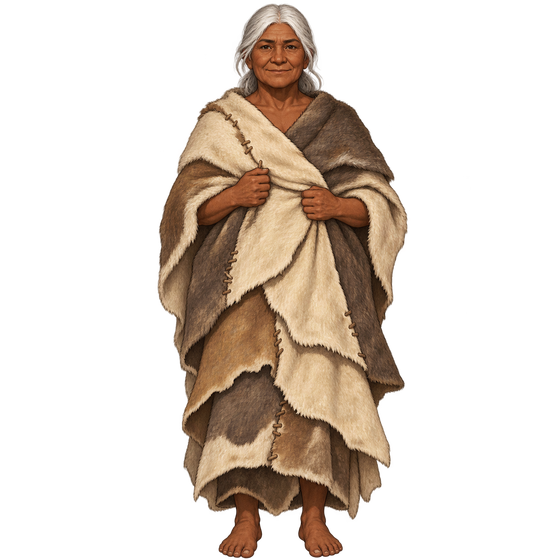
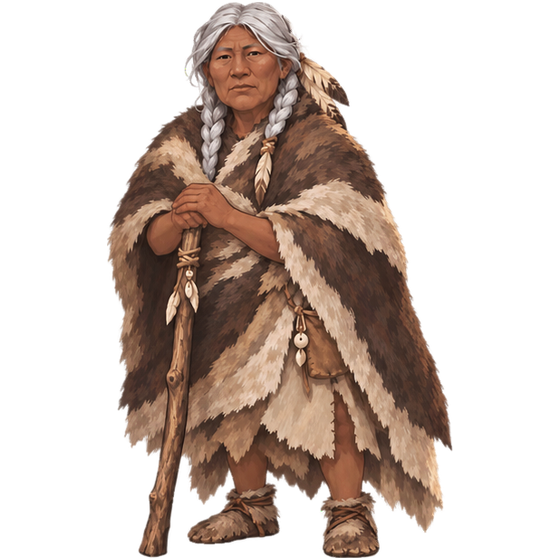
Brandbook: texturas que giran alrededor de Recursos gráficos, anciana del juego y título de portada estable

diff --git a/brandbook/index.html b/brandbook/index.html
@@ -12,7 +12,7 @@
   <link rel="apple-touch-icon" href="../apple-touch-icon.png">
   <script>(function(d){d.classList.add('js');if(!matchMedia('(prefers-reduced-motion: reduce)').matches&&!(location.hash&&location.hash!=='#inicio'))d.classList.add('cargando');setTimeout(function(){if(!window.marcaViva)d.classList.remove('js','cargando')},7000)})(document.documentElement)</script>
   <link rel="stylesheet" href="fuentes/space-grotesk.css">
-  <link rel="stylesheet" href="marca.css?v=25">
+  <link rel="stylesheet" href="marca.css?v=26">
 </head>
 <body>
   <a class="saltar" href="#contenido">Saltar al contenido</a>
@@ -1139,25 +1139,25 @@
             <div class="banda-hud"><span>06 / 10</span><span data-descifrar>#6940AE</span></div>
             <p class="seccion-numero">06 · Píxel, patrones, ilustración, fotografía y materiales</p>
             <h2 id="titulo-recursos" class="banda-titulo"><span data-banda-titulo>Recursos gráficos</span></h2>
+            <div class="collage-fotos" data-collage-fotos aria-hidden="true">
+              <img src="textiles/textil-055.webp" alt="" width="420" height="335" loading="lazy" decoding="async">
+              <img src="textiles/textil-035.webp" alt="" width="420" height="336" loading="lazy" decoding="async">
+              <img src="textiles/textil-098.webp" alt="" width="335" height="420" loading="lazy" decoding="async">
+              <img src="textiles/textil-129.webp" alt="" width="420" height="420" loading="lazy" decoding="async">
+              <img class="solo-compu" src="textiles/textil-015.webp" alt="" width="337" height="420" loading="lazy" decoding="async">
+              <img src="textiles/textil-118.webp" alt="" width="315" height="420" loading="lazy" decoding="async">
+              <img src="textiles/textil-034.webp" alt="" width="335" height="420" loading="lazy" decoding="async">
+              <img src="textiles/textil-068.webp" alt="" width="335" height="420" loading="lazy" decoding="async">
+              <img src="textiles/textil-046.webp" alt="" width="335" height="420" loading="lazy" decoding="async">
+              <img src="textiles/textil-127.webp" alt="" width="337" height="420" loading="lazy" decoding="async">
+              <img src="textiles/textil-049.webp" alt="" width="420" height="420" loading="lazy" decoding="async">
+              <img class="solo-compu" src="textiles/textil-047.webp" alt="" width="420" height="420" loading="lazy" decoding="async">
+              <img class="solo-compu" src="textiles/textil-104.webp" alt="" width="420" height="418" loading="lazy" decoding="async">
+              <img class="solo-compu" src="textiles/textil-001.webp" alt="" width="315" height="420" loading="lazy" decoding="async">
+              <img class="solo-compu" src="textiles/textil-016.webp" alt="" width="315" height="420" loading="lazy" decoding="async">
+              <img class="solo-compu" src="textiles/textil-064.webp" alt="" width="420" height="334" loading="lazy" decoding="async">
+            </div>
           </header>
-          <div class="collage-fotos" data-collage-fotos aria-hidden="true">
-            <img src="textiles/textil-055.webp" alt="" width="420" height="335" loading="lazy" decoding="async" style="--x:-4;--y:-24;--w:13;--t:0.00">
-            <img src="textiles/textil-035.webp" alt="" width="420" height="336" loading="lazy" decoding="async" style="--x:8;--y:22;--w:12;--t:0.04">
-            <img src="textiles/textil-098.webp" alt="" width="335" height="420" loading="lazy" decoding="async" style="--x:-8;--y:26;--w:9.5;--t:0.08">
-            <img src="textiles/textil-129.webp" alt="" width="420" height="420" loading="lazy" decoding="async" style="--x:20;--y:-22;--w:9;--t:0.12">
-            <img class="solo-compu" src="textiles/textil-015.webp" alt="" width="337" height="420" loading="lazy" decoding="async" style="--x:9;--y:-31;--w:6;--t:0.16">
-            <img src="textiles/textil-118.webp" alt="" width="315" height="420" loading="lazy" decoding="async" style="--x:22;--y:30;--w:7.5;--t:0.20">
-            <img src="textiles/textil-034.webp" alt="" width="335" height="420" loading="lazy" decoding="async" style="--x:-24;--y:-27;--w:10;--t:0.25">
-            <img src="textiles/textil-068.webp" alt="" width="335" height="420" loading="lazy" decoding="async" style="--x:-25;--y:27;--w:9;--t:0.29">
-            <img src="textiles/textil-046.webp" alt="" width="335" height="420" loading="lazy" decoding="async" style="--x:34;--y:-29;--w:8;--t:0.34">
-            <img src="textiles/textil-127.webp" alt="" width="337" height="420" loading="lazy" decoding="async" style="--x:35;--y:24;--w:8.5;--t:0.38">
-            <img src="textiles/textil-049.webp" alt="" width="420" height="420" loading="lazy" decoding="async" style="--x:-36;--y:-20;--w:5.5;--t:0.43">
-            <img class="solo-compu" src="textiles/textil-047.webp" alt="" width="420" height="420" loading="lazy" decoding="async" style="--x:-38;--y:21;--w:6;--t:0.47">
-            <img class="solo-compu" src="textiles/textil-104.webp" alt="" width="420" height="418" loading="lazy" decoding="async" style="--x:44;--y:-26;--w:5;--t:0.53">
-            <img class="solo-compu" src="textiles/textil-001.webp" alt="" width="315" height="420" loading="lazy" decoding="async" style="--x:46;--y:31;--w:6;--t:0.57">
-            <img class="solo-compu" src="textiles/textil-016.webp" alt="" width="315" height="420" loading="lazy" decoding="async" style="--x:-43;--y:-30;--w:6.5;--t:0.63">
-            <img class="solo-compu" src="textiles/textil-064.webp" alt="" width="420" height="334" loading="lazy" decoding="async" style="--x:-44;--y:33;--w:7;--t:0.68">
-          </div>
         </div>
       </div>
       <p class="copete" data-aparece>Todo el sistema sale de un módulo: el píxel, que sacamos de los patrones textiles de las culturas originarias. Con él se arman los paneles, los racimos, las tramas, la chakana y los patrones que crea el público. Lo acompañan las ilustraciones, las fotos y los materiales del evento.</p>
@@ -1254,7 +1254,7 @@
           <figure data-aparece><img src="ilustraciones/loica-pampeana.png" alt="Loica pampeana" width="560" height="560" loading="lazy" decoding="async"><figcaption>Loica pampeana</figcaption></figure>
           <figure data-aparece><img src="ilustraciones/nandu.png" alt="Ñandú" width="560" height="560" loading="lazy" decoding="async"><figcaption>Ñandú</figcaption></figure>
           <figure data-aparece><img src="ilustraciones/escuerzo.png" alt="Escuerzo" width="560" height="560" loading="lazy" decoding="async"><figcaption>Escuerzo</figcaption></figure>
-          <figure data-aparece><img src="ilustraciones/anciana-querandi.png" alt="Anciana querandí" width="560" height="560" loading="lazy" decoding="async"><figcaption>Anciana querandí</figcaption></figure>
+          <figure data-aparece><img src="ilustraciones/anciana-querandi.png?v=2" alt="Anciana querandí" width="560" height="560" loading="lazy" decoding="async"><figcaption>Anciana querandí</figcaption></figure>
         </div>
         <dl class="filas" data-aparece>
           <div><dt>Identidad marcada</dt><dd>Libro ilustrado pintado a mano: pinceladas suaves, contornos limpios y volumen simple. Es la misma imagen que se imprime en cartón en Yachay.</dd></div>
@@ -1678,6 +1678,6 @@
   <script src="marca.js?v=14"></script>
   <script src="efectos.js?v=6"></script>
   <script src="secciones.js?v=5"></script>
-  <script src="movimiento.js?v=16"></script>
+  <script src="movimiento.js?v=17"></script>
 </body>
 </html>

diff --git a/brandbook/movimiento.js b/brandbook/movimiento.js
@@ -278,7 +278,8 @@
     const h1 = $('h1', titular), partes = $$('.t-parte', h1);
     titular.style.setProperty('--titulo', '100px');
     const movil = matchMedia('(max-width: 700px)').matches;
-    const ancho = movil ? Math.max(...partes.map(anchoTexto)) : anchoTexto(h1);
+    const cajas = partes.map(p => { const r = document.createRange(); r.selectNodeContents(p); return r.getBoundingClientRect(); });
+    const ancho = movil ? Math.max(...cajas.map(c => c.width)) : Math.max(...cajas.map(c => c.right)) - Math.min(...cajas.map(c => c.left));
     const tam = limitar(100 * titular.clientWidth / ancho * 0.995, 40, movil ? 260 : 440);
     titular.style.setProperty('--titulo', tam.toFixed(1) + 'px');
   };
@@ -437,6 +438,12 @@
   const enVista = new IntersectionObserver(ents => ents.forEach(en => en.target.classList.toggle('en-vista', en.isIntersecting)), { rootMargin: '10% 0px' });
   $$('[data-tipo-vivo], .cinta').forEach(el => enVista.observe(el));
 
+  const ORBITA = [
+    [1, -.03, .115, 0], [.85, .12, .1, .1], [.95, -.13, .085, -.08], [.75, .02, .09, .05],
+    [1.05, -.09, .07, -.05], [.8, .15, .08, .12], [.9, .06, .105, -.1], [1, -.16, .08, .06],
+    [.7, -.05, .085, -.04], [.95, .1, .09, .08], [.85, -.11, .075, -.12], [1.05, .04, .07, .04],
+    [.75, .17, .065, -.06], [.95, -.02, .075, .09], [.8, -.17, .07, -.02], [1, .14, .08, .07]
+  ];
   const bandas = $$('[data-banda]').map(b => {
     const t = $('[data-banda-titulo]', b);
     const h2 = t.closest('h2');
@@ -445,8 +452,48 @@
     const letras = partir(t, 'letra-b');
     if (!quieto && window.EFECTOS) window.EFECTOS.tecnico(t, { letras, zona: b, barrido: 'una', presion: true });
     const c = b.closest('[data-collage]');
-    return { b, t, c, fotos: c && $('[data-collage-fotos]', c), entrada: 0, desborde: 0 };
+    const fotos = c ? $$('[data-collage-fotos] img', c).map((el, i) => ({ el, d: ORBITA[i % ORBITA.length], op: '', zi: '' })) : null;
+    return { b, t, c, h2, fotos, orbita: null, entrada: 0, desborde: 0 };
   });
+
+  const medirOrbita = x => {
+    const W = x.b.clientWidth, H = x.b.clientHeight, movil = W < 700;
+    const lista = x.fotos.filter(f => getComputedStyle(f.el).display !== 'none');
+    const n = lista.length, salto = n % 7 ? 7 : 5;
+    const R = W * (movil ? 0.34 : 0.2);
+    lista.forEach((f, j) => {
+      const [radio, alto, ancho, desvio] = f.d;
+      f.w = W * ancho * (movil ? 2.2 : 1.25);
+      f.h = f.w * f.el.getAttribute('height') / f.el.getAttribute('width');
+      f.el.style.width = f.w.toFixed(1) + 'px';
+      f.fi = VUELTA * ((j * salto) % n) / n + desvio;
+      f.r = radio;
+      f.y = alto;
+      f.nace = -0.28 + 0.4 * j / Math.max(1, n - 1);
+      f.muere = 0.78 + 0.3 * j / Math.max(1, n - 1);
+    });
+    x.orbita = { cx: W / 2, cy: x.h2.offsetTop + x.h2.offsetHeight / 2, R, P: R * 2, H, lista };
+  };
+
+  const orbitar = (x, v) => {
+    const o = x.orbita;
+    if (!o) return;
+    const giro = VUELTA * 0.7 * v;
+    for (const f of o.lista) {
+      const g = salida(limitar((v - f.nace) / 0.3)) * salida(limitar((f.muere - v) / 0.3));
+      const a = f.fi - giro;
+      const zo = o.R * f.r * Math.cos(a);
+      const z = zo - (1 - g) * o.R * 9;
+      const k = o.P / (o.P - z);
+      const X = o.cx + o.R * f.r * Math.sin(a) * k;
+      const Y = o.cy + (f.y * o.H + zo * 0.04) * k;
+      f.el.style.transform = `translate3d(${(X - f.w / 2).toFixed(1)}px,${(Y - f.h / 2).toFixed(1)}px,0) scale(${k.toFixed(4)})`;
+      const op = limitar(g * 5).toFixed(2);
+      if (op !== f.op) { f.op = op; f.el.style.opacity = op; }
+      const zi = String(z >= 0 ? 26 + Math.min(20, Math.round(z / o.R * 20)) : Math.max(1, 24 - Math.round(-z / o.R * 12)));
+      if (zi !== f.zi) { f.zi = zi; f.el.style.zIndex = zi; }
+    }
+  };
 
   const cabecera = $('[data-cabecera]');
   const pastillas = $('[data-pastillas]');
@@ -575,6 +622,10 @@
       const ancho = x.t.offsetWidth;
       x.desborde = ancho > util ? ancho - util + 24 : 0;
       x.entrada = Math.min(vw * 0.2, 320);
+      if (x.fotos) {
+        medirOrbita(x);
+        if (quieto) orbitar(x, 0.45);
+      }
     });
     desfases.forEach(g => {
       const hijos = [...g.children];
@@ -607,11 +658,7 @@
       if (r.bottom < -80 || r.top > vh + 80) return;
       const rc = lecturasCollage[i];
       const p = rc ? limitar((vh - rc.top) / (vh + rc.height)) : limitar((vh - r.top) / (vh + r.height));
-      if (rc && x.fotos) {
-        const u = limitar(-rc.top / Math.max(1, rc.height - vh));
-        const q = Math.min(1, u / 0.75);
-        x.fotos.style.setProperty('--q', q.toFixed(3));
-      }
+      if (rc && x.orbita) orbitar(x, -rc.top / Math.max(1, rc.height - vh));
       x.b.style.setProperty('--r', salida(limitar((vh - r.top) / (vh * 0.5))).toFixed(3));
       x.t.style.transform = `translate3d(${mezclar(x.entrada, -x.desborde, p).toFixed(1)}px,0,0)`;
     });

diff --git a/brandbook/marca.css b/brandbook/marca.css
@@ -1134,20 +1134,22 @@ html:has(dialog.ficha[open]){overflow:hidden}
   .alternativa-codigos{grid-template-columns:1fr}
 }
 
-.collage{position:relative;height:200vh;margin:0 calc(50% - 50vw) clamp(48px,6vw,88px)}
-.collage-escena{position:sticky;top:0;height:100vh;height:100svh;display:grid;align-content:center;padding-top:var(--alto-cabecera);overflow:hidden}
-.collage .banda{margin:0}
-.collage-fotos{position:absolute;inset:var(--alto-cabecera) 0 0;z-index:2;pointer-events:none}
-.collage-fotos img{--s:clamp(0,calc((var(--q,0) - var(--t)) * 3.4),1);--e:calc(var(--s) * (2 - var(--s)));position:absolute;left:50%;top:50%;display:block;width:calc(var(--w) * var(--k,1) * 1vw);max-width:none;height:auto;transform:translate(-50%,-50%) translate(calc(var(--x) * var(--e) * 1vw),calc(var(--y) * var(--ky,1) * var(--e) * 1vh)) scale(calc(.18 + .82 * var(--e)));opacity:clamp(0,calc(var(--s) * 5),1);will-change:transform,opacity}
+.collage{position:relative;height:250vh;margin:0 calc(50% - 50vw) clamp(48px,6vw,88px)}
+.collage-escena{position:sticky;top:0;height:100vh;height:100svh;padding-top:var(--alto-cabecera);overflow:hidden}
+.collage .banda{margin:0;height:100%;display:flex;flex-direction:column}
+.collage .banda .seccion-numero{margin-top:auto}
+.collage .banda-titulo{margin-bottom:auto}
+.collage .banda-hud,.collage .banda .seccion-numero{position:relative;z-index:25}
+.collage .banda-titulo>span{z-index:25}
+.collage-fotos{position:absolute;inset:0;pointer-events:none}
+.collage-fotos img{position:absolute;left:0;top:0;display:block;max-width:none;height:auto;opacity:0;transform-origin:50% 50%;will-change:transform,opacity;backface-visibility:hidden}
 @media (max-width:700px){
-  .collage{height:180vh}
-  .collage-fotos img{--k:2.2;--ky:.8}
+  .collage{height:220vh}
   .collage-fotos .solo-compu{display:none}
 }
 @media (prefers-reduced-motion:reduce){
   .collage{height:auto}
-  .collage-escena{position:relative;height:auto;min-height:100vh}
-  .collage-fotos{--q:1}
+  .collage-escena{position:relative}
 }
 @media (max-width:700px){
   .conv-socia-pie{flex-wrap:wrap;row-gap:6px;max-width:140px;white-space:normal;letter-spacing:.06em}
